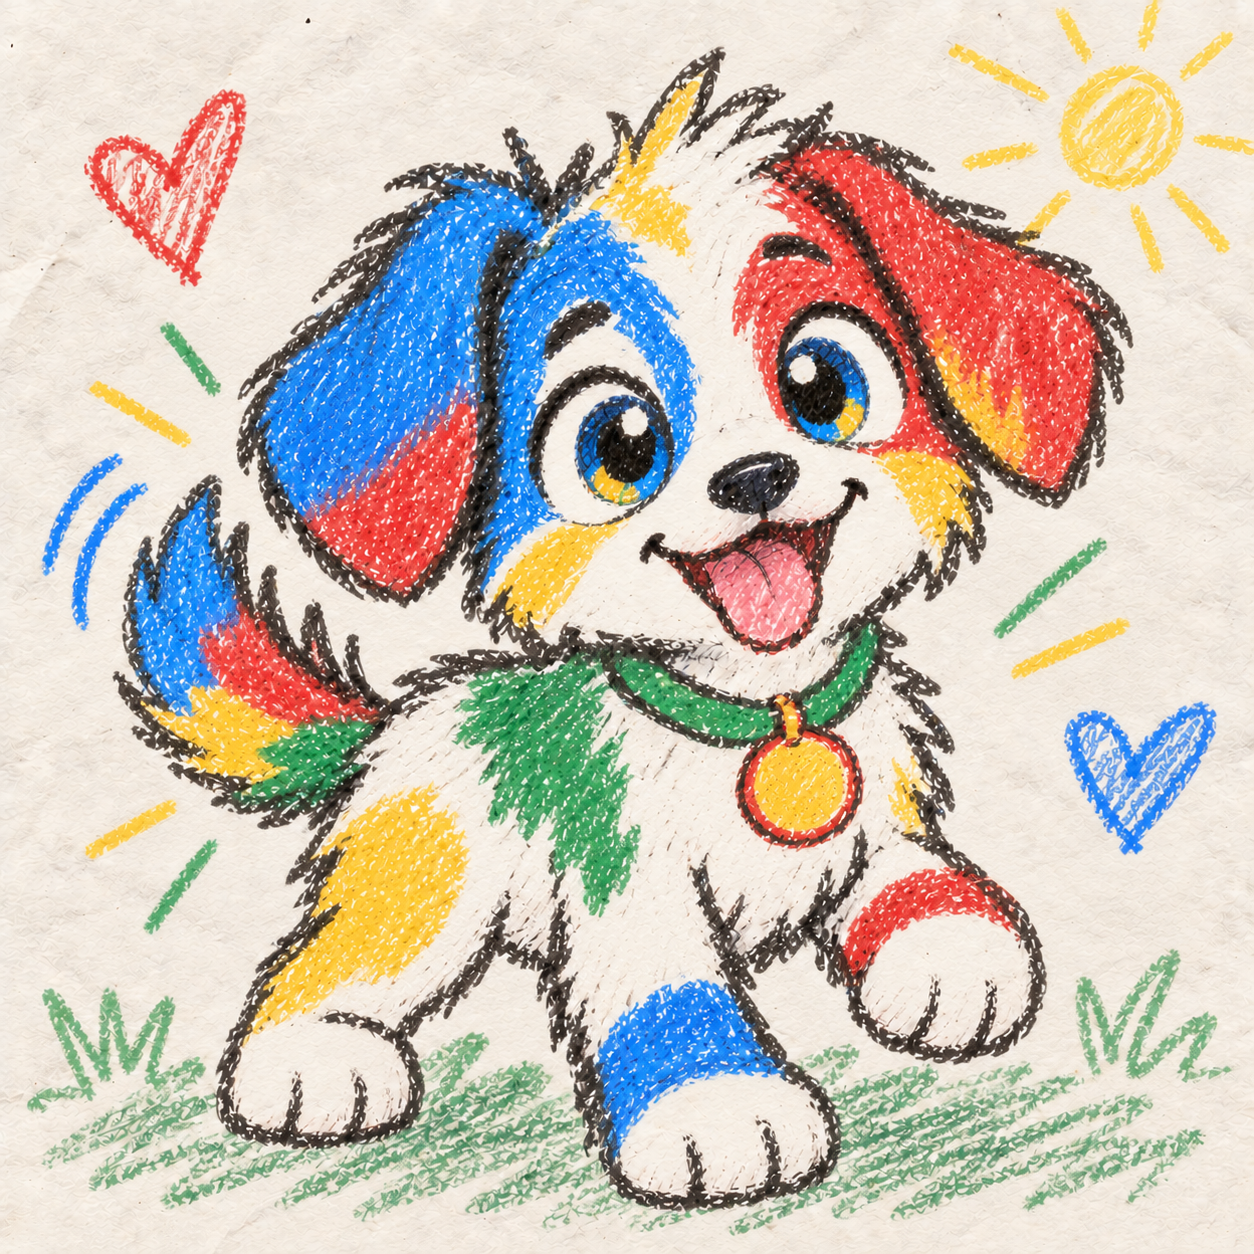
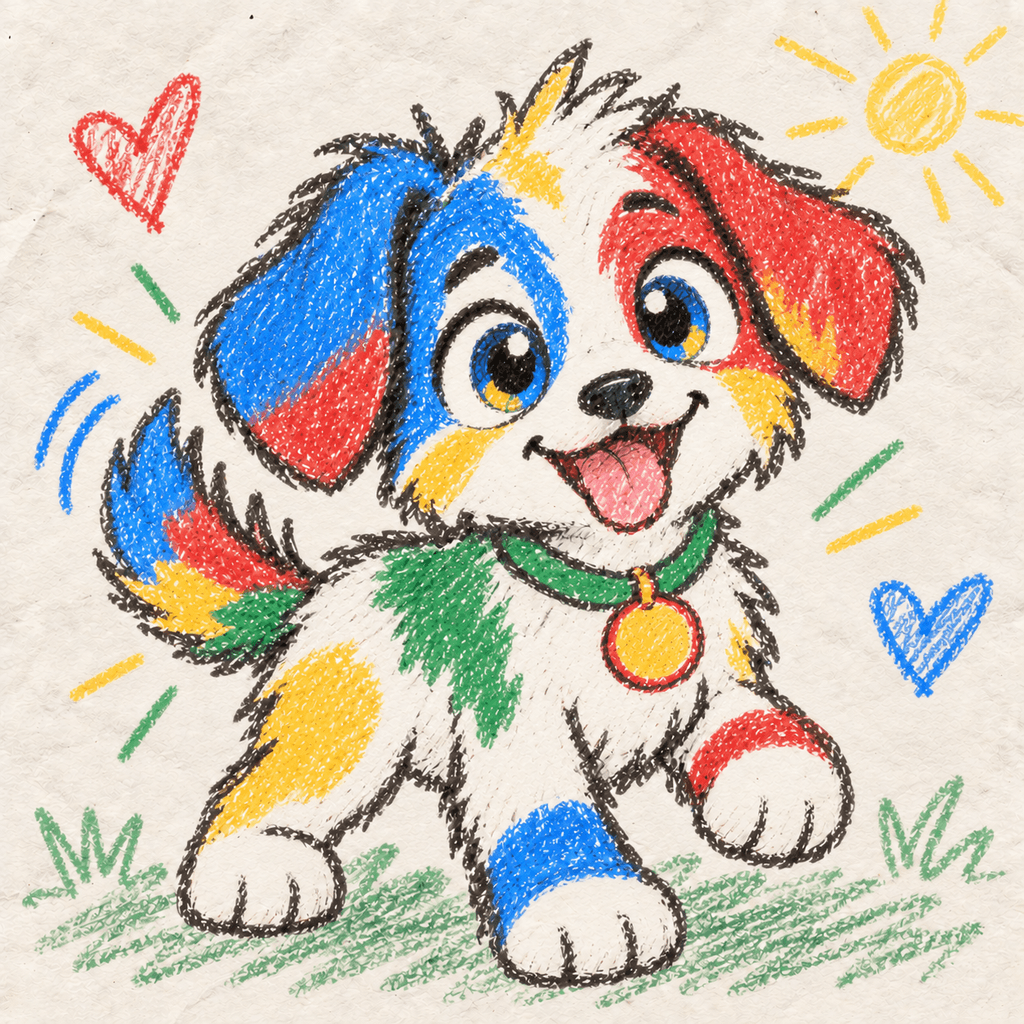
optimize NFT artwork assets
Add `pnpm optimize:artwork`, a repeatable in-place optimizer for the 20
committed NFT PNGs, and run it: 51.9 MB -> 13.5 MB (74% smaller).

Public paths are unchanged — #461 serves these exact files as static
HTTPS NFT image URLs, so the script only ever rewrites bytes.

Stage art is downscaled to 1024px (693-800 KB each) and ticker logos to
896px (338-468 KB each), matching the per-class targets in #466. Palette
mode is what buys the reduction; a plain re-encode only saves ~25%.

Re-running is a no-op: files already at or below their target edge are
skipped, so the lossy encode is never stacked on itself.

Closes #466

diff --git a/tests/scripts/optimize-artwork.test.ts b/tests/scripts/optimize-artwork.test.ts
@@ -1,0 +1,163 @@
+import { mkdtemp, readFile, rm, writeFile } from "node:fs/promises";
+import { tmpdir } from "node:os";
+import path from "node:path";
+import sharp from "sharp";
+import { afterEach, beforeEach, describe, expect, it } from "vitest";
+import {
+  ARTWORK_TARGETS,
+  LOGO_MAX_EDGE,
+  STAGE_MAX_EDGE,
+  optimizeFile,
+} from "../../scripts/optimize-artwork.mjs";
+
+let workDir: string;
+
+beforeEach(async () => {
+  workDir = await mkdtemp(path.join(tmpdir(), "optimize-artwork-"));
+});
+
+afterEach(async () => {
+  await rm(workDir, { recursive: true, force: true });
+});
+
+/** A square gradient PNG, large enough to need downscaling. */
+async function writeGradient(name: string, size: number): Promise<string> {
+  const pixels = Buffer.alloc(size * size * 3);
+  for (let y = 0; y < size; y++) {
+    for (let x = 0; x < size; x++) {
+      const i = (y * size + x) * 3;
+      pixels[i] = (x * 255) / size;
+      pixels[i + 1] = (y * 255) / size;
+      pixels[i + 2] = ((x + y) * 255) / (2 * size);
+    }
+  }
+  const filePath = path.join(workDir, name);
+  await sharp(pixels, { raw: { width: size, height: size, channels: 3 } })
+    .png()
+    .toFile(filePath);
+  return filePath;
+}
+
+describe("ARTWORK_TARGETS", () => {
+  it("covers exactly the 16 stage images and 4 ticker logos", () => {
+    expect(ARTWORK_TARGETS.map((target) => target.file)).toEqual([
+      "public/aapl/healthy.png",
+      "public/aapl/warning.png",
+      "public/aapl/danger.png",
+      "public/aapl/liquidated.png",
+      "public/nvda/healthy.png",
+      "public/nvda/warning.png",
+      "public/nvda/danger.png",
+      "public/nvda/liquidated.png",
+      "public/googl/healthy.png",
+      "public/googl/warning.png",
+      "public/googl/danger.png",
+      "public/googl/liquidated.png",
+      "public/meta/healthy.png",
+      "public/meta/warning.png",
+      "public/meta/danger.png",
+      "public/meta/liquidated.png",
+      "public/logos/aapl.png",
+      "public/logos/nvda.png",
+      "public/logos/googl.png",
+      "public/logos/meta.png",
+    ]);
+  });
+
+  it("targets one edge for stage art and a smaller one for logos", () => {
+    const edgeFor = (file: string) =>
+      ARTWORK_TARGETS.find((target) => target.file === file)?.maxEdge;
+
+    expect(edgeFor("public/nvda/healthy.png")).toBe(STAGE_MAX_EDGE);
+    expect(edgeFor("public/meta/liquidated.png")).toBe(STAGE_MAX_EDGE);
+    expect(edgeFor("public/logos/nvda.png")).toBe(LOGO_MAX_EDGE);
+    expect(LOGO_MAX_EDGE).toBeLessThan(STAGE_MAX_EDGE);
+  });
+});
+
+describe("optimizeFile", () => {
+  it("downscales an oversized image to the target edge, still square PNG", async () => {
+    const filePath = await writeGradient("oversized.png", 1254);
+    const before = (await readFile(filePath)).byteLength;
+
+    const result = await optimizeFile(filePath, STAGE_MAX_EDGE);
+
+    expect(result.status).toBe("replaced");
+    expect(result.after).toBeLessThan(before);
+
+    const metadata = await sharp(filePath).metadata();
+    expect(metadata.format).toBe("png");
+    expect(metadata.width).toBe(STAGE_MAX_EDGE);
+    expect(metadata.height).toBe(STAGE_MAX_EDGE);
+  });
+
+  it("leaves an already-small image byte-identical", async () => {
+    const filePath = await writeGradient("small.png", STAGE_MAX_EDGE);
+    const original = await readFile(filePath);
+
+    const result = await optimizeFile(filePath, STAGE_MAX_EDGE);
+
+    expect(result.status).toBe("skipped");
+    expect(await readFile(filePath)).toEqual(original);
+  });
+
+  it("is idempotent: a second run skips the file it just wrote", async () => {
+    const filePath = await writeGradient("twice.png", 1254);
+
+    const first = await optimizeFile(filePath, STAGE_MAX_EDGE);
+    const optimized = await readFile(filePath);
+    const second = await optimizeFile(filePath, STAGE_MAX_EDGE);
+
+    expect(first.status).toBe("replaced");
+    expect(second.status).toBe("skipped");
+    expect(await readFile(filePath)).toEqual(optimized);
+  });
+
+  it("keeps the original when the re-encode would be larger", async () => {
+    // A synthetic pattern that compresses far better at full size than the
+    // downscaled palette output does.
+    const size = 1100;
+    const pixels = Buffer.alloc(size * size * 3);
+    for (let i = 0; i < pixels.length; i++) {
+      pixels[i] = (i * 2654435761) % 256;
+    }
+    const filePath = path.join(workDir, "incompressible.png");
+    await sharp(pixels, { raw: { width: size, height: size, channels: 3 } })
+      .png({ compressionLevel: 9 })
+      .toFile(filePath);
+    const original = await readFile(filePath);
+
+    const result = await optimizeFile(filePath, STAGE_MAX_EDGE);
+
+    expect(result.status).toBe("unchanged");
+    expect(result.after).toBe(result.before);
+    expect(await readFile(filePath)).toEqual(original);
+  });
+
+  it("does not leave a temp file behind", async () => {
+    const filePath = await writeGradient("tidy.png", 1254);
+
+    await optimizeFile(filePath, LOGO_MAX_EDGE);
+
+    await expect(readFile(`${filePath}.tmp`)).rejects.toThrow();
+  });
+
+  it("rejects when the file does not exist", async () => {
+    await expect(
+      optimizeFile(path.join(workDir, "missing.png"), STAGE_MAX_EDGE)
+    ).rejects.toThrow();
+  });
+});
+
+describe("optimizeFile write safety", () => {
+  it("does not touch sibling files in the same directory", async () => {
+    const target = await writeGradient("target.png", 1254);
+    const sibling = path.join(workDir, "sibling.png");
+    await writeFile(sibling, await readFile(target));
+    const siblingBefore = await readFile(sibling);
+
+    await optimizeFile(target, STAGE_MAX_EDGE);
+
+    expect(await readFile(sibling)).toEqual(siblingBefore);
+  });
+});
